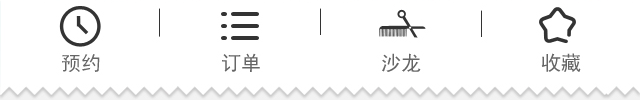
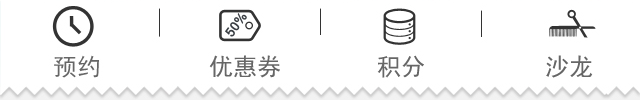
myscore

diff --git a/src/ios/App/Controllers/User/MyScoreViewController.m b/src/ios/App/Controllers/User/MyScoreViewController.m
@@ -7,9 +7,13 @@
 //
 
 #import "MyScoreViewController.h"
+#import "MyScoreCell.h"
+@interface MyScoreViewController ()<UITableViewDataSource, UITableViewDelegate>
+@property (nonatomic, strong) NSArray *datasource;
+@property (nonatomic, strong) UITableView *tableView;
+@property (nonatomic, strong) UIView *linerView;
 
-@interface MyScoreViewController ()
-
+@property (nonatomic, strong) UILabel *scoreLbl;
 @end
 
 @implementation MyScoreViewController
@@ -18,15 +22,74 @@
 {
     self = [super initWithNibName:nibNameOrNil bundle:nibBundleOrNil];
     if (self) {
-        // Custom initialization
+        self.title =  @"我的积分";
+        
+        FAKIcon *leftIcon = [FAKIonIcons ios7ArrowBackIconWithSize:NAV_BAR_ICON_SIZE];
+        [leftIcon addAttribute:NSForegroundColorAttributeName value:[UIColor whiteColor]];
+        self.leftNavItemImg =[leftIcon imageWithSize:CGSizeMake(NAV_BAR_ICON_SIZE, NAV_BAR_ICON_SIZE)];
+        
     }
     return self;
+}
+
+- (void) leftNavItemClick
+{
+    [self.navigationController popViewControllerAnimated:YES];
+}
+
+- (void)loadView
+{
+    [super loadView];
+    
+    float topViewheight = 50;
+    
+    UIView *topView = [[UIView alloc] initWithFrame:CGRectMake(0, self.topBarOffset, WIDTH(self.view), topViewheight)];
+    [self.view addSubview:topView];
+    UIImageView *topImageView = [[UIImageView alloc] initWithFrame:topView.bounds];
+    topImageView.image = [UIImage imageNamed:@"Profile_Bottom_Bg"];
+    [topView addSubview:topImageView];
+    UILabel *scoreTitleLbl = [[UILabel alloc] initWithFrame:CGRectMake(0,0,100,topViewheight)];
+    scoreTitleLbl.backgroundColor = [UIColor clearColor];
+    scoreTitleLbl.textColor = [UIColor blackColor];
+    scoreTitleLbl.font = [UIFont systemFontOfSize:18];
+    scoreTitleLbl.text = @"我的积分:";
+    scoreTitleLbl.textAlignment = NSTextAlignmentRight;
+    [topView addSubview:scoreTitleLbl];
+    
+    self.scoreLbl = [[UILabel alloc] initWithFrame:CGRectMake(MaxX(scoreTitleLbl),0,200,topViewheight)];
+    self.scoreLbl.backgroundColor = [UIColor clearColor];
+    self.scoreLbl.textColor = [UIColor colorWithHexString:APP_BASE_COLOR];
+    self.scoreLbl.font = [UIFont systemFontOfSize:18];
+    self.scoreLbl.textAlignment = NSTextAlignmentLeft;;
+    [topView addSubview:self.scoreLbl];
+    
+    self.linerView =[[UIView alloc] init];
+    self.linerView.backgroundColor = [UIColor colorWithHexString:APP_BASE_COLOR];
+    [self.view addSubview:self.linerView];
+    
+    self.tableView = [[UITableView alloc] initWithFrame:CGRectMake(0,
+                                                                   MaxY(topView),
+                                                                   WIDTH(self.view),
+                                                                   [self contentHeightWithNavgationBar:YES withBottomBar:NO] - topViewheight)];
+    
+    self.tableView.backgroundColor = [UIColor clearColor];
+    self.tableView.delegate = self;
+    self.tableView.dataSource = self;
+    self.tableView.separatorStyle = UITableViewCellSeparatorStyleNone;
+    [self.view addSubview:self.tableView];
+    
+    [self loadData];
+}
+- (void)loadData
+{
+    self.datasource = [FakeDataHelper getFakeWorkList];
+    self.linerView.frame =CGRectMake(37,Y(self.tableView), 6, (self.datasource.count-1) * 100);
 }
 
 - (void)viewDidLoad
 {
     [super viewDidLoad];
-    // Do any additional setup after loading the view.
+    self.scoreLbl.text = @"1234";
 }
 
 - (void)didReceiveMemoryWarning
@@ -35,15 +98,27 @@
     // Dispose of any resources that can be recreated.
 }
 
-/*
-#pragma mark - Navigation
-
-// In a storyboard-based application, you will often want to do a little preparation before navigation
-- (void)prepareForSegue:(UIStoryboardSegue *)segue sender:(id)sender
+- (float) tableView:(UITableView *)tableView heightForRowAtIndexPath:(NSIndexPath *)indexPath
 {
-    // Get the new view controller using [segue destinationViewController].
-    // Pass the selected object to the new view controller.
+    return 100;
 }
-*/
+
+- (NSInteger)tableView:(UITableView *)tableView numberOfRowsInSection:(NSInteger)section
+{
+    return self.datasource.count;
+}
+
+- (UITableViewCell *)tableView:(UITableView *)tableView cellForRowAtIndexPath:(NSIndexPath *)indexPath
+{
+    static NSString * cellIdentifier = @"scoreCellIdentifier";
+    MyScoreCell * cell = [tableView dequeueReusableCellWithIdentifier:cellIdentifier];
+    if (!cell) {
+        cell = [[MyScoreCell alloc]  initWithStyle:UITableViewCellStyleDefault reuseIdentifier:cellIdentifier];
+        cell.selectionStyle = UITableViewCellSelectionStyleNone;
+    }
+    cell.contentView.backgroundColor =  cell.backgroundColor =  [UIColor clearColor];
+    [cell setup:nil isTop:indexPath.row == 0];
+    return cell;
+}
 
 @end

diff --git a/src/ios/App/Views/MyScoreCell.m b/src/ios/App/Views/MyScoreCell.m
@@ -1,12 +1,20 @@
 //
-//  MyScoreCell.m
+//  GroupCell.m
 //  WelHair
 //
-//  Created by lu larry on 3/20/14.
+//  Created by lu larry on 3/8/14.
 //  Copyright (c) 2014 Welfony. All rights reserved.
 //
 
 #import "MyScoreCell.h"
+#import "CircleImageView.h"
+
+@interface MyScoreCell()
+@property (nonatomic, strong) CircleImageView *imgView;
+@property (nonatomic, strong) UILabel *nameLbl;
+@property (nonatomic, strong) UILabel *scoreLbl;
+@property (nonatomic, strong) UILabel *dateLbl;
+@end
 
 @implementation MyScoreCell
 
@@ -14,21 +22,67 @@
 {
     self = [super initWithStyle:style reuseIdentifier:reuseIdentifier];
     if (self) {
-        // Initialization code
+        float iconSize = 20;
+        float cellHeight = 100;
+        self.imgView = [[CircleImageView alloc] initWithFrame: CGRectMake(30, (cellHeight - iconSize)/2, iconSize, iconSize)];
+        [self addSubview:self.imgView];
+
+        self.nameLbl = [[UILabel alloc] initWithFrame:CGRectMake(MaxX(self.imgView) + 5,
+                                                                 0,
+                                                                 170,
+                                                                 cellHeight)];
+        self.nameLbl.font = [UIFont boldSystemFontOfSize:14];
+        self.nameLbl.numberOfLines = 2;
+        self.nameLbl.backgroundColor = [UIColor clearColor];
+        self.nameLbl.textColor = [UIColor blackColor];
+        [self addSubview:self.nameLbl];
+        
+        self.scoreLbl = [[UILabel alloc] initWithFrame:CGRectMake(MaxX(self.nameLbl) + 5,
+                                                                    20,
+                                                                    80,
+                                                                    30)];
+        self.scoreLbl.font = [UIFont systemFontOfSize:14];
+        self.scoreLbl.numberOfLines = 1;
+        self.scoreLbl.backgroundColor = [UIColor clearColor];
+        self.scoreLbl.textColor = [UIColor colorWithHexString:APP_BASE_COLOR];
+        self.scoreLbl.textAlignment= NSTextAlignmentRight;
+        [self addSubview:self.scoreLbl];
+        
+        self.dateLbl = [[UILabel alloc] initWithFrame:CGRectMake(MaxX(self.nameLbl) + 5,
+                                                                  MaxY(self.scoreLbl),
+                                                                  80,
+                                                                  30)];
+        self.dateLbl.font = [UIFont systemFontOfSize:14];
+        self.dateLbl.numberOfLines = 1;
+        self.dateLbl.backgroundColor = [UIColor clearColor];
+        self.dateLbl.textColor = [UIColor lightGrayColor];
+        self.dateLbl.textAlignment= NSTextAlignmentRight;
+        [self addSubview:self.dateLbl];
     }
     return self;
-}
-
-- (void)awakeFromNib
-{
-    // Initialization code
 }
 
 - (void)setSelected:(BOOL)selected animated:(BOOL)animated
 {
     [super setSelected:selected animated:animated];
-
-    // Configure the view for the selected state
 }
+
+- (void)setup:(NSDictionary *)data
+        isTop:(BOOL)isTop
+{
+
+    if(isTop){
+        self.imgView.layer.borderColor = [[UIColor colorWithHexString:APP_BASE_COLOR] CGColor];
+        self.imgView.layer.borderWidth = 2;
+        self.imgView.backgroundColor = [UIColor whiteColor];
+    }else{
+        self.imgView.layer.borderColor = [[UIColor colorWithHexString:APP_BASE_COLOR] CGColor];
+        self.imgView.layer.borderWidth = 10;
+    }
+    self.nameLbl.text = @"开设账户";
+    self.scoreLbl.text = @"100";
+    self.dateLbl.text = @"2013-12-12";
+}
+
 
 @end

diff --git a/src/ios/App/Controllers/User/UserViewController.m b/src/ios/App/Controllers/User/UserViewController.m
@@ -28,6 +28,7 @@
 #import "LoginViewController.h"
 #import "UserProfileViewController.h"
 #import "StaffManageViewController.h"
+#import "MyScoreViewController.h"
 
 @interface UserViewController ()<UITableViewDataSource, UITableViewDelegate, UIActionSheetDelegate, UIImagePickerControllerDelegate,UINavigationControllerDelegate>
 
@@ -64,21 +65,20 @@ static const   float profileViewHeight = 80;
 - (void)loadView
 {
     [super loadView];
-
-
+    
     float tabButtonViewHeight = 50;
     float avatorSize = 50;
     
     self.headerBackgroundView = [[UIImageView alloc] initWithFrame:CGRectMake(0, 0, WIDTH
                                                                               (self.view), profileViewHeight)];
-    self.headerBackgroundView.image = [UIImage imageNamed:@"Profile_Banner_Bg@2x"];
+    self.headerBackgroundView.image = [UIImage imageNamed:@"Profile_Banner_Bg"];
     [self.view addSubview:self.headerBackgroundView];
     
     
     self.tableView = [[UITableView alloc] initWithFrame:CGRectMake(0,
                                                                    self.topBarOffset,
                                                                    WIDTH(self.view),
-                                                                 HEIGHT(self.view) - kTopBarHeight - kStatusBarHeight - kBottomBarHeight)];
+                                                                 [self contentHeightWithNavgationBar:YES withBottomBar:YES])];
 
     self.tableView.backgroundColor = [UIColor clearColor];
     self.tableView.delegate = self;
@@ -243,12 +243,15 @@ static const   float profileViewHeight = 80;
             break;
         }
         case 1:{
-            OrdersViewController *vc = [OrdersViewController new];
+            //my coupon list
+        }
+        case 2:{
+            MyScoreViewController *vc = [MyScoreViewController new];
             vc.hidesBottomBarWhenPushed = YES;
             [self.navigationController pushViewController:vc animated:YES];
             break;
         }
-        case 2:{
+        case 3:{
             if(![FakeDataHelper isLogin])
             {
                 [self.navigationController presentViewController:[[UINavigationController alloc] initWithRootViewController:[LoginViewController new]] animated:YES completion:nil];
@@ -267,15 +270,8 @@ static const   float profileViewHeight = 80;
                 vc.hidesBottomBarWhenPushed = YES;
                 [self.navigationController pushViewController:vc animated:YES];
             }
-            break;
         }
             break;
-        case 3:{
-            FavoritesViewController *vc = [FavoritesViewController new];
-            vc.hidesBottomBarWhenPushed = YES;
-            [self.navigationController pushViewController:vc animated:YES];
-            break;
-        }
         default:
             break;
     }

diff --git a/src/ios/App/Controllers/Staffs/StaffDetailViewController.m b/src/ios/App/Controllers/Staffs/StaffDetailViewController.m
@@ -92,7 +92,7 @@ static const   float profileViewHeight = 80;
     self.headerBackgroundView = [[UIImageView alloc] initWithFrame:CGRectMake(0, 0, WIDTH
                                                                               (self.view), profileViewHeight)];
 
-    self.headerBackgroundView.image = [UIImage imageNamed:@"Profile_Banner_Bg@2x"];
+    self.headerBackgroundView.image = [UIImage imageNamed:@"Profile_Banner_Bg"];
     [self.scrollView addSubview:self.headerBackgroundView];
     
     UIView *headerView_ = [[UIView alloc] initWithFrame:CGRectMake(0, 0, WIDTH(self.view), profileViewHeight + addressViewHeight+ tabButtonViewHeight)];

diff --git a/src/ios/App/Views/MyScoreCell.h b/src/ios/App/Views/MyScoreCell.h
@@ -9,5 +9,6 @@
 #import <UIKit/UIKit.h>
 
 @interface MyScoreCell : UITableViewCell
-
+- (void)setup:(NSDictionary  *)data
+        isTop:(BOOL)isTop;
 @end

diff --git a/src/ios/App/Controllers/User/MyScoreViewController.h b/src/ios/App/Controllers/User/MyScoreViewController.h
@@ -8,6 +8,8 @@
 
 #import "BaseViewController.h"
 
+
+
 @interface MyScoreViewController : BaseViewController
 
 @end
